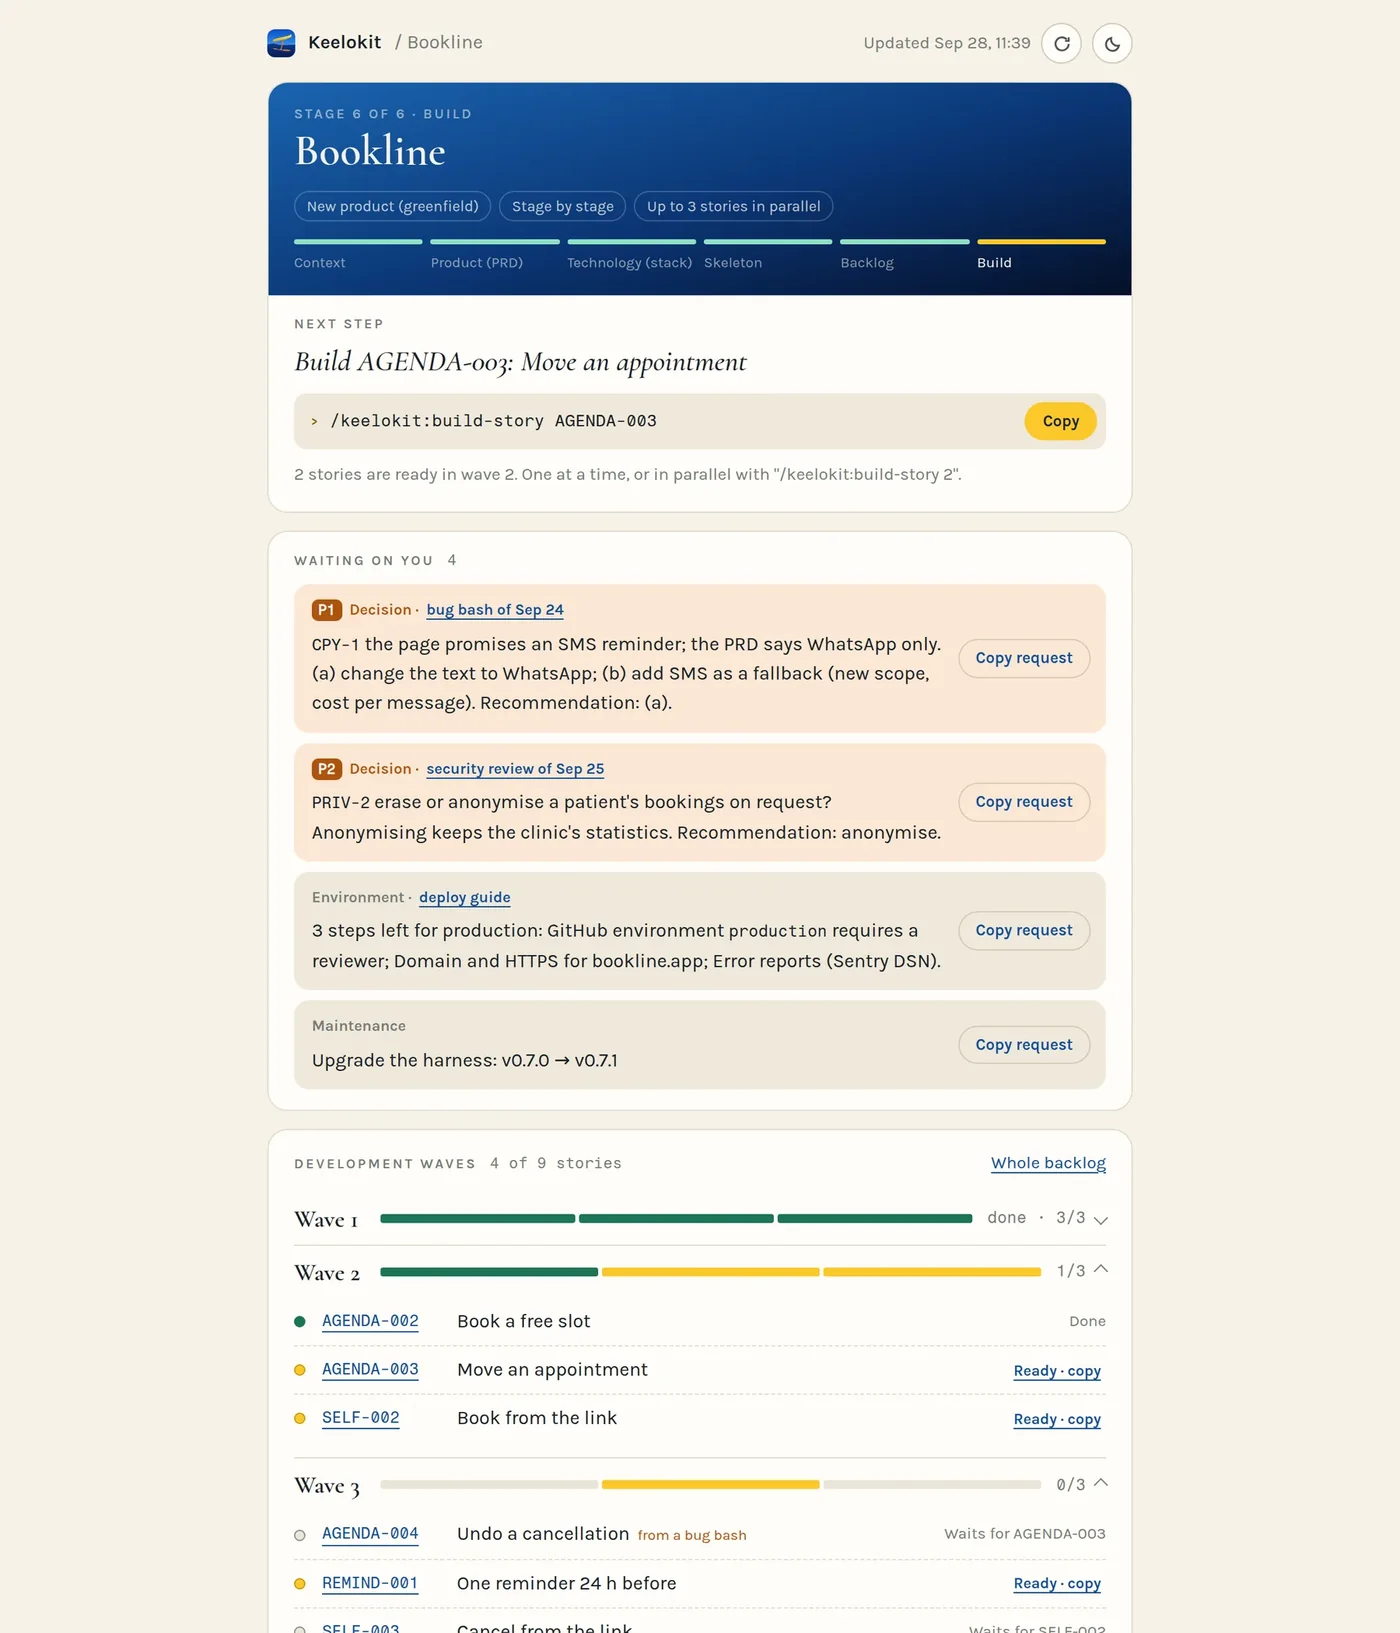
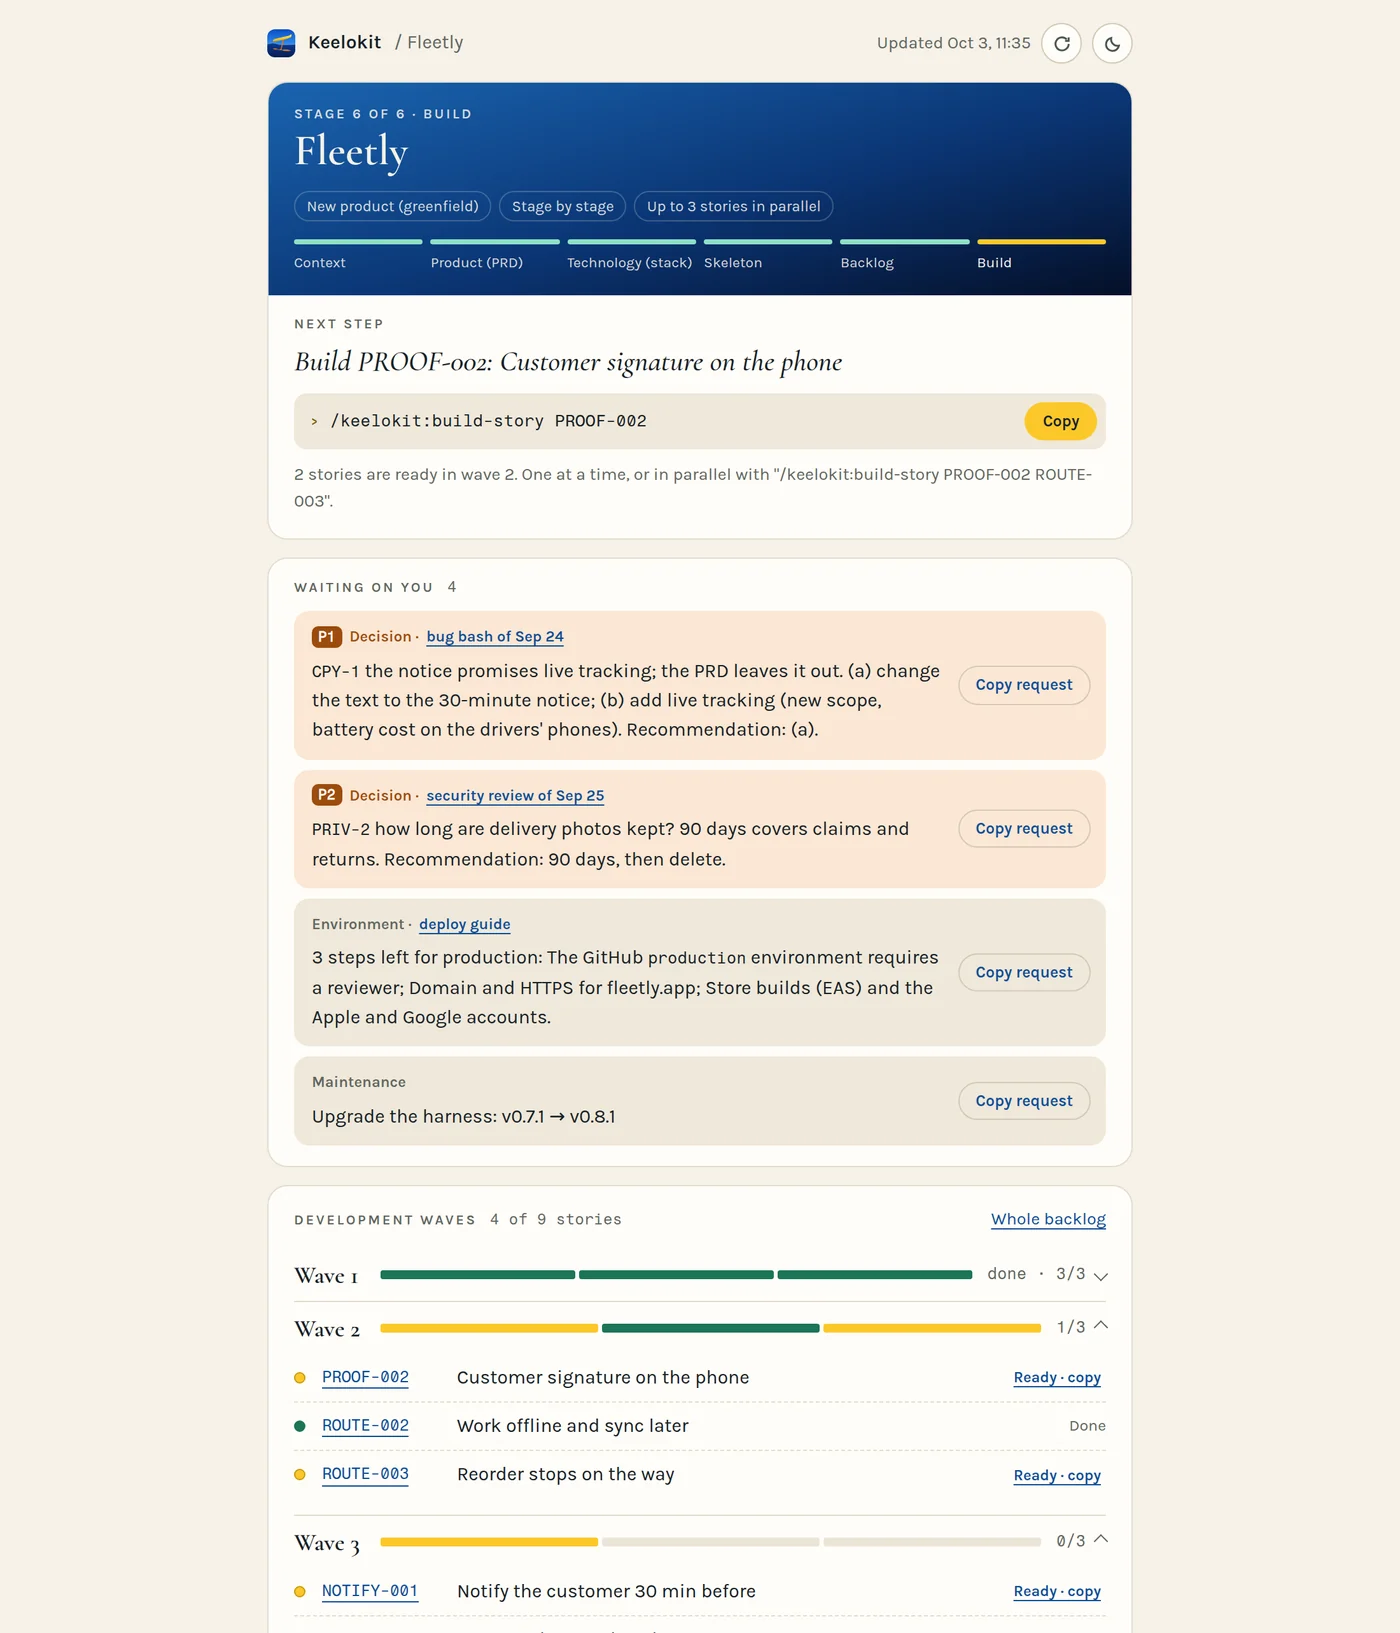
docs: README screenshots show the Fleetly sample
Claude-Session: https://claude.ai/code/session_01GzefXwY3r5MrLAN2X2Eaky

diff --git a/backlog/next.md b/backlog/next.md
@@ -39,8 +39,7 @@ The SEC ones were decided on 2026-09-28 and are done.
 
 ## Smaller things
 
-- [ ] README screenshots (`docs/assets/dashboard-{en,es}.webp`) still show the old sample
-  project; regenerate them with Fleetly (`tools/dashboard-shots/` in keelokit.com).
+- [x] README screenshots (`docs/assets/dashboard-{en,es}.webp`) show Fleetly (2026-10-03).
 - [ ] SEC-6: to keep the dashboard link out of a public repo, the link would move to a git-ignored
   local file (option B). `state.toml` can't be ignored, since it also holds the gates.
 - [ ] Next release: a bug bash first (`/keelokit:check-bugbash`), then `scripts/release.sh`.
